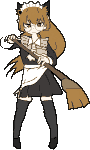
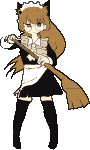
ドット立ち絵を部分ごとに1色へ塗りつぶす（AI が足す目のハイライトとグラデーションを確実に消す）
作者指摘: まだ目にハイライト、イージング（グラデーション）が残っている。単色化が必要。
清書の指示だけでは AI が守らないので、ドット化の前に topix.py の flatten で機械的に単色化する:
線（ほぼ黒）で囲まれた部分に分け、部分の中の色がはっきり分かれていれば k 平均で割り
（線のすき間でつながった顔と髪など）、塊ごとに中央値の1色で塗る。小さなかけら
（瞳の光など）はいちばん近い大きな塊の色に。

diff --git a/scripts/portrait-dots/topix.py b/scripts/portrait-dots/topix.py
@@ -39,9 +39,88 @@ def cut_bg(rgb):
     return fg
 
 
+def _split(pix, spread=38.0, kmax=5):
+    """色の並び pix（N×3）を、どの群も spread 以内の広がりになるまで k 平均で割る。群の番号を返す。"""
+    labels = np.zeros(len(pix), int)
+    centers = [pix.mean(axis=0)]
+    for k in range(2, kmax + 1):
+        dist = np.linalg.norm(pix - np.array(centers)[labels], axis=1)
+        if np.percentile(dist, 90) <= spread:
+            break
+        # いちばん遠い点を新しい中心に足して、数回だけ割り当て直す
+        centers.append(pix[np.argmax(dist)])
+        c = np.array(centers, float)
+        for _ in range(8):
+            d = np.linalg.norm(pix[:, None, :] - c[None, :, :], axis=2)
+            labels = d.argmin(axis=1)
+            for j in range(len(c)):
+                if (labels == j).any():
+                    c[j] = pix[labels == j].mean(axis=0)
+        centers = list(c)
+    return labels
+
+
+def flatten(rgb, fg):
+    """
+    各部分を1色で塗る（作者指示: 単色化）。清書の AI は指示しても目のハイライトやグラデーション
+    （イージング）を足すので、ここで確実に消す。
+      1. 線（ほぼ黒）で囲まれた部分に分ける（線のすき間で漏れないよう、分けるときだけ線を太らせる）
+      2. 部分の中の色が はっきり分かれていれば（漏れでつながった顔と髪など）k 平均で割る。
+         1つの色の濃淡の範囲（グラデーション）なら割らない
+      3. 割れた群ごとに、つながった塊を中央値の1色で塗る
+      4. 小さなかけら（瞳の光・線のすき間）は、いちばん近い大きな塊の色に
+    """
+    line = (rgb.max(axis=2) < 70) & fg
+    wall = ndi.binary_dilation(line, iterations=2)
+    area = fg & ~wall
+    lab, n = ndi.label(area, structure=[[0, 1, 0], [1, 1, 1], [0, 1, 0]])
+    out = rgb.copy()
+    seg = np.zeros(lab.shape, int)  # 最終の塊の番号
+    nxt = 1
+    flat = rgb.reshape(-1, 3).astype(float)
+    for r in range(1, n + 1):
+        m = lab == r
+        cnt = int(m.sum())
+        if cnt < 40:
+            continue
+        pix = rgb[m].astype(float)
+        sub = _split(pix[:: max(1, cnt // 4000)]) if cnt > 200 else np.zeros(1, int)
+        if sub.max() == 0:
+            seg[m] = nxt
+            nxt += 1
+            continue
+        # 割った中心で全画素を割り当て直し、群ごとにつながった塊に分ける
+        k = sub.max() + 1
+        samp = pix[:: max(1, cnt // 4000)]
+        cen = np.array([samp[sub == j].mean(axis=0) for j in range(k)])
+        full = np.linalg.norm(pix[:, None, :] - cen[None], axis=2).argmin(axis=1)
+        grp = np.zeros(lab.shape, int)
+        grp[m] = full + 1
+        for j in range(1, k + 1):
+            cl, cn = ndi.label(grp == j)
+            for c in range(1, cn + 1):
+                seg[cl == c] = nxt
+                nxt += 1
+    ids = np.arange(1, nxt)
+    sizes = ndi.sum(seg > 0, seg, ids) if nxt > 1 else np.array([])
+    for ch in range(3):
+        med = ndi.median(rgb[..., ch], seg, ids) if nxt > 1 else []
+        lut = np.zeros(nxt)
+        lut[1:] = med
+        out[..., ch] = np.where(seg > 0, lut[seg], rgb[..., ch])
+    big = np.isin(seg, ids[sizes >= 60])
+    rest = fg & ~line & ~big
+    if rest.any() and big.any():
+        _, (iy, ix) = ndi.distance_transform_edt(~big, return_indices=True)
+        out[rest] = out[iy[rest], ix[rest]]
+    out[line] = (20, 16, 18)
+    return out
+
+
 def pix(name):
     rgb = np.array(Image.open(S + f'{name}_ai.png').convert('RGB'))
     fg = cut_bg(rgb)
+    rgb = flatten(rgb, fg)
     ys, xs = np.nonzero(fg)
     rgb = rgb[ys.min():ys.max()+1, xs.min():xs.max()+1]
     fg = fg[ys.min():ys.max()+1, xs.min():xs.max()+1]

diff --git a/scripts/portrait-dots/README.md b/scripts/portrait-dots/README.md
@@ -8,7 +8,7 @@ C:/_own/git/ComfyUI/agent/README.md）で「同じポーズ・髪型・服・表
 2. `bash scripts/portrait-dots/run.sh`（`ONLY="kiriko teto"` で一部だけ）— キャラごとの色の指示つきで清書（1枚 約40秒）。
    **色は各キャラの公式サイトの設定・公式立ち絵に合わせる**（run.sh の各行に出典。キリコは肌が山吹色）。
    床の影が出たら「床の影や地面は描かない」を強める／seed を変える
-3. `python scripts/portrait-dots/topix.py 150 [id…]` — 白地を抜き、全身 150 ドットに面積平均で縮小、
+3. `python scripts/portrait-dots/topix.py 150 [id…]` — 白地を抜き、各部分を1色に塗りつぶし（AI が足す目のハイライトやグラデーションを確実に消す）、全身 150 ドットに面積平均で縮小、
    12色に減色、外周に1ドットの輪郭。`work/<id>_pix.png` を public/portraits-dot/<id>.png へ
 4. ゲームは表示のときに場面の色を 45% かける（engine/diorama.ts の tintPortrait）
 
